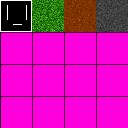
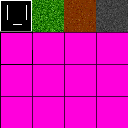
Add input fields.

Changed region(s): [[0.0, 0.2188, 0.2812, 0.5312], [0.25, 0.375, 0.2812, 0.5]]

diff --git a/src/dev/tera/ui/UIInputField.java b/src/dev/tera/ui/UIInputField.java
@@ -1,0 +1,50 @@
+package dev.tera.ui;
+
+import java.awt.Color;
+import java.awt.Graphics;
+
+import dev.tera.Game;
+import dev.tera.gfx.Assets;
+import dev.tera.input.Keyboard;
+
+public class UIInputField extends UIObject {
+
+	private String inputString;
+	private float inputX, inputY;
+	
+	private Color bgCol, textCol;
+	
+	public UIInputField(Game game, String inputString, Color bgCol, Color textCol, float x, float y, int width, int height) {
+		super(x, y, width, height);
+		inputX = x + 5;
+		inputY = y + 60;
+		this.inputString = inputString;
+		this.bgCol = bgCol;
+		this.textCol = textCol;
+	}
+
+	@Override
+	public void tick() {
+	}
+
+	@Override
+	public void render(Graphics g) {
+		g.setColor(bgCol);
+		g.fillRect((int) x, (int) y, width, height);
+		g.setFont(Assets.inputFont);
+		g.setColor(textCol);
+		g.drawString(inputString, (int) inputX, (int) inputY);
+	}
+
+	@Override
+	public void onClick() {
+	}
+	
+	public void detectInputChanges(Keyboard keyboard) {
+		inputString = keyboard.cmdBuilder.toString();
+		if (keyboard.backspace && inputString.length() != 0) {
+			keyboard.cmdBuilder.deleteCharAt(inputString.length() - 1);
+		}
+	}
+	
+}

diff --git a/src/dev/tera/state/GameState.java b/src/dev/tera/state/GameState.java
@@ -1,27 +1,45 @@
 package dev.tera.state;
 
+import java.awt.Color;
 import java.awt.Graphics;
 
 import dev.tera.Game;
+import dev.tera.input.Keyboard;
+import dev.tera.ui.UIInputField;
+import dev.tera.ui.UIManager;
 import dev.tera.worlds.World;
 
 public class GameState extends State {
 
 	private World world;
+	private UIManager uiManager;
 	
 	public GameState(Game game) {
 		super(game);
 		world = new World(game, "res/wrl/world1.wld");
+		uiManager = new UIManager();
+		uiManager.addObject(new UIInputField(game, game.getKeyManager().cmdBuilder.toString(), new Color(154, 57, 0), Color.WHITE, 480, 320, 200, 100));
 	}
 	
 	@Override
 	public void tick() {
 		world.tick();
+		uiManager.tick();
+		detectKeyChanges(game.getKeyManager());
 	}
 
 	@Override
 	public void render(Graphics g) {
 		world.render(g);
+		uiManager.render(g);
+	}
+	
+	public void detectKeyChanges(Keyboard keyboard) {
+		UIInputField inputField = (UIInputField) uiManager.getObjects().get(0);
+		if (inputField != null)
+			inputField.detectInputChanges(keyboard);
+		else
+			System.out.println("Input field is null.\n");
 	}
 
 }

diff --git a/src/dev/tera/input/Keyboard.java b/src/dev/tera/input/Keyboard.java
@@ -4,12 +4,14 @@ import java.awt.event.KeyEvent;
 import java.awt.event.KeyListener;
 
 public class Keyboard implements KeyListener {
-	
-	private boolean[] keys;
-	public boolean up, down, left, right;
+
+	public StringBuilder cmdBuilder;
+	public boolean[] keys;
+	public boolean up, down, left, right, enter, backspace;
 	
 	public Keyboard() {
 		keys = new boolean[256];
+		cmdBuilder = new StringBuilder();
 	}
 
 	public void tick() {
@@ -17,6 +19,8 @@ public class Keyboard implements KeyListener {
 		down = keys[KeyEvent.VK_S] || keys[KeyEvent.VK_DOWN];
 		left = keys[KeyEvent.VK_A] || keys[KeyEvent.VK_LEFT];
 		right = keys[KeyEvent.VK_D] || keys[KeyEvent.VK_RIGHT];
+		enter = keys[KeyEvent.VK_ENTER];
+		backspace = keys[KeyEvent.VK_BACK_SPACE];
 	}
 	
 	@Override
@@ -31,6 +35,7 @@ public class Keyboard implements KeyListener {
 
 	@Override
 	public void keyTyped(KeyEvent ke) {
+		cmdBuilder.append(ke.getKeyChar());
 	}
 
 }

diff --git a/src/dev/tera/gfx/Assets.java b/src/dev/tera/gfx/Assets.java
@@ -10,7 +10,7 @@ public class Assets {
 	
 	private static final int SPRITE_WIDTH = 32, SPRITE_HEIGHT = 32;
 
-	public static Font mainFont;
+	public static Font mainFont, inputFont;
 	
 	public static BufferedImage grassTile, dirtTile, stoneTile;
 	public static BufferedImage uiPlayButton;
@@ -18,6 +18,7 @@ public class Assets {
 	public static void init() {
 		// Font
 		mainFont = FontLoader.loadFont("res/fnt/m3x6.ttf", 63);
+		inputFont = FontLoader.loadFont("res/fnt/m3x6.ttf", 53);
 		
 		SpriteSheet sheet = new SpriteSheet(ImageLoader.loadImage("./res/img/sheet.png"));
 		SpriteSheet uiSheet = new SpriteSheet(ImageLoader.loadImage("./res/img/ui.png"));

diff --git a/src/dev/tera/display/Display.java b/src/dev/tera/display/Display.java
@@ -34,9 +34,11 @@ public class Display {
 		canvas.setPreferredSize(size);
 		canvas.setMaximumSize(size);
 		canvas.setMinimumSize(size);
+		canvas.setFocusable(false);
 		
 		frame.add(canvas);
 		frame.setVisible(true);
+		frame.setFocusable(true);
 		frame.pack();
 	}
 	

diff --git a/src/dev/tera/Game.java b/src/dev/tera/Game.java
@@ -107,6 +107,10 @@ public class Game implements Runnable {
 		return mouseManager;
 	}
 	
+	public Display getDisplay() {
+		return display;
+	}
+	
 	public synchronized void start() {
 		if (running) return;
 		running = true;
